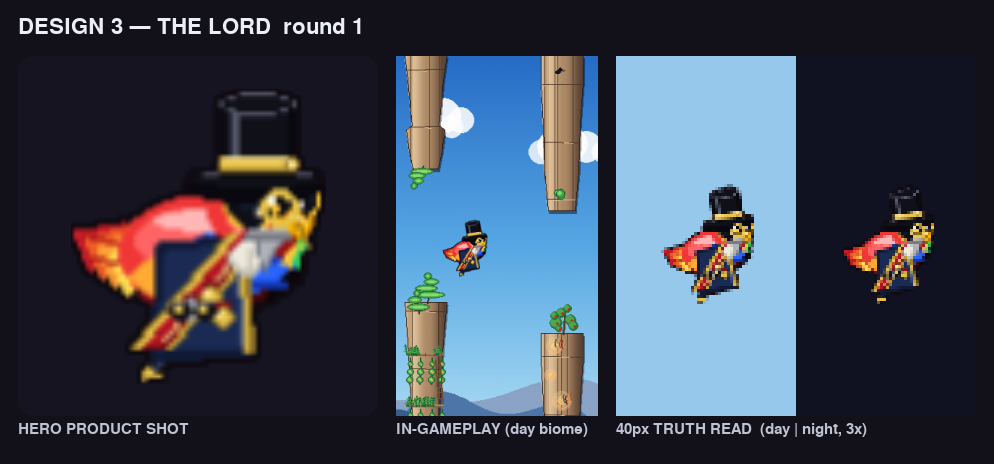
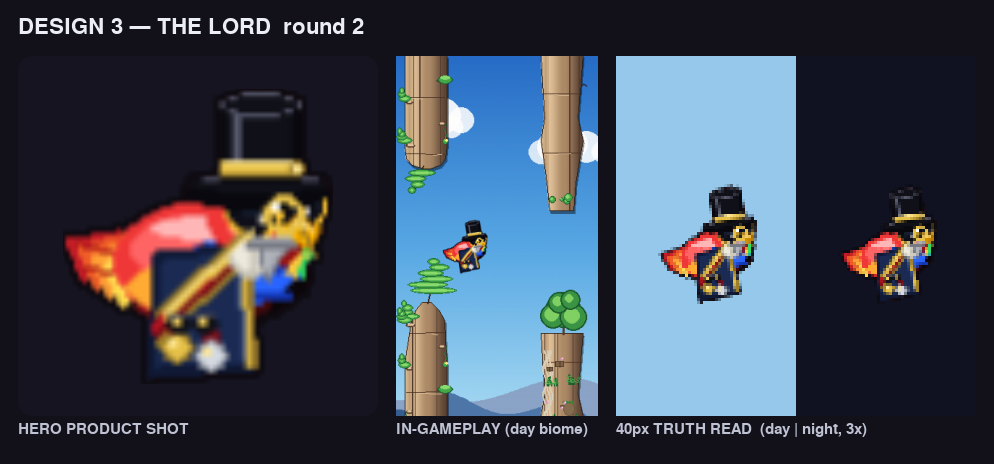
THE LORD (tophat design 3) R2: single gold-edged sash diagonal
Drop the walking stick so the sash owns the one diagonal, rebuild it as a
bright-gold-edged band crossing the navy chest (off the red wing) so it
stops vanishing red-on-red, and cut chest medals 3->2 sitting below the
sash line so the hero zone stays clean. Reads SASH first, HAT second at
40px on day and night.

Claude-Session: https://claude.ai/code/session_01HafGQfRZVDiGkQqpJPr5Cm

diff --git a/tools/tophat_candidates/design_3.py b/tools/tophat_candidates/design_3.py
@@ -42,37 +42,26 @@ _LD_JABOT_D = (196, 192, 178)
 
 _LD_GREY    = (176, 178, 186)      # grey Vandyke goatee + moustache
 _LD_GREY_D  = (120, 122, 132)
-_LD_EBONY   = (28, 26, 32)         # ebony walking-stick shaft
 _LD_SILVER  = (214, 218, 226)      # one silver medal so the cluster isn't all gold
 _LD_SILVER_D = (150, 154, 164)
 _LD_SHOE    = (18, 18, 24)         # court shoe black
 _LD_SHOE_H  = (70, 72, 86)
 
 
-def _medal(surf, cx, cy, face, face_d):
+def _medal(surf, cx, cy, face, face_d, r=4):
     """A round chest medal: tiny ribbon bar above a two-value disc with a glint.
-    Kept ~5px so two or three cluster without muddying the sash at 40px."""
-    pygame.draw.rect(surf, _LD_SASH_D, (cx - 2, cy - 4, 4, 2))        # ribbon bar
-    pygame.draw.circle(surf, face_d, (cx, cy), 3)
-    pygame.draw.circle(surf, face, (cx, cy), 2)
+    Slightly larger now (two-medal cluster) so each glints clearly while sitting
+    well below the sash line rather than speckling it."""
+    pygame.draw.rect(surf, _LD_SASH_D, (cx - 2, cy - r - 2, 4, 3))    # ribbon bar
+    pygame.draw.circle(surf, face_d, (cx, cy), r)
+    pygame.draw.circle(surf, face, (cx, cy), r - 1)
     pygame.draw.circle(surf, _LD_GOLD_H, (cx - 1, cy - 1), 1)         # glint
 
 
 def _paint(surf, _a):
-    # ── GOLD-TOPPED EBONY WALKING STICK slung diagonally BEHIND the body (painted
-    #    first so the body covers all but the parts that overshoot the silhouette).
-    #    The gold knob sits up near the slung wing; the shaft sweeps down past the
-    #    lower body so the tip breaks the outline against open sky.
-    knob = (HX - 6, HY + 18)
-    tip  = (HX - 26, HY + 40)
-    pygame.draw.line(surf, _LD_EBONY, (knob[0], knob[1]), (tip[0], tip[1]), 3)
-    pygame.draw.line(surf, _LD_NAVY_H, (knob[0] - 1, knob[1] + 1),
-                     (tip[0] - 1, tip[1] + 1), 1)                     # shaft glint
-    pygame.draw.circle(surf, _LD_GOLD_D, knob, 4)
-    pygame.draw.circle(surf, _LD_GOLD, knob, 3)
-    pygame.draw.circle(surf, _LD_GOLD_H, (knob[0] - 1, knob[1] - 1), 1)
-    _poly(surf, _LD_GOLD, [(tip[0] - 1, tip[1] - 1), (tip[0] + 2, tip[1] + 1),
-                           (tip[0] - 2, tip[1] + 2)])                 # ferrule cap
+    # The walking stick was dropped: its gold knob + shaft swept at nearly the sash
+    # angle, so two gold diagonals fought and muddied the hero. Court shoes + medals
+    # already carry the "peer" read; the sash now owns the diagonal alone.
 
     # ── NAVY CEREMONIAL COAT painted OVER the body. A trapezoid across body centre
     #    (~32,52) with gold-trim front edges + a small collar notch. Three navy
@@ -90,31 +79,32 @@ def _paint(surf, _a):
     pygame.draw.line(surf, _LD_GOLD_D, (HX - 4, HY + 7), (HX - 2, HY + 35), 2)
     pygame.draw.line(surf, _LD_GOLD, (HX - 4, HY + 7), (HX - 3, HY + 35), 1)
 
-    # ── DIAGONAL RED+GOLD SASH (THE HERO). A single bold band shoulder-to-hip,
-    #    gold-bordered on BOTH edges so it stays the dominant accent and survives
-    #    the downscale. Drawn BEFORE the medals so the medals sit on top yet stay
-    #    small; the sash is never let collapse to mud under them.
-    sh = (HX - 2, HY + 6)            # high at the near shoulder
-    hp = (HX - 26, HY + 34)          # low at the off hip
-    pygame.draw.line(surf, _LD_GOLD_D, sh, hp, 11)                    # outer gold edge
-    pygame.draw.line(surf, _LD_GOLD, sh, hp, 9)
-    pygame.draw.line(surf, _LD_SASH_D, sh, hp, 6)                     # scarlet field
-    pygame.draw.line(surf, _LD_SASH, (sh[0], sh[1] - 1), (hp[0], hp[1] - 1), 4)
-    # One bright gold rail along the upper border — the glint that keeps the
-    # diagonal singing at 40px against both skies.
-    pygame.draw.line(surf, _LD_GOLD_H, (sh[0] + 3, sh[1] - 2),
-                     (hp[0] + 3, hp[1] - 2), 1)
+    # ── DIAGONAL GOLD-EDGED SASH (THE HERO). One clean band shoulder-to-hip: a
+    #    narrow scarlet core framed by a continuous bright-gold spine on the upper
+    #    edge. It is sat HIGH so it crosses the NAVY chest panel (not the scarlet
+    #    wing below) — red-on-red was making it vanish at 40px. Goal: a single
+    #    unbroken gold-edged diagonal that reads SASH first against day AND night.
+    sh = (HX - 4, HY + 7)            # high at the near shoulder, over the navy lapel
+    hp = (HX - 24, HY + 26)          # ends at the hip ABOVE the scarlet wing
+    pygame.draw.line(surf, _LD_GOLD_D, sh, hp, 9)                     # gold underframe
+    pygame.draw.line(surf, _LD_SASH_D, sh, hp, 5)                     # scarlet shadow
+    pygame.draw.line(surf, _LD_SASH, (sh[0] - 1, sh[1]), (hp[0] - 1, hp[1]), 3)
+    # Continuous 2px bright-gold spine on the upper edge, shoulder-to-hip — the one
+    # mark that has to survive the downscale, so it gets the brightest value.
+    pygame.draw.line(surf, _LD_GOLD, (sh[0] + 2, sh[1] - 3),
+                     (hp[0] + 2, hp[1] - 3), 3)
+    pygame.draw.line(surf, _LD_GOLD_H, (sh[0] + 2, sh[1] - 4),
+                     (hp[0] + 2, hp[1] - 4), 1)
 
-    # ── MEDALS clustered at the chest — two gold, one silver, each tiny. Set just
-    #    off the sash so they read as a row of decorations without crowding the
-    #    diagonal into clutter.
-    _medal(surf, HX - 11, HY + 22, _LD_GOLD, _LD_GOLD_D)
-    _medal(surf, HX - 16, HY + 25, _LD_SILVER, _LD_SILVER_D)
-    _medal(surf, HX - 8, HY + 27, _LD_GOLD, _LD_GOLD_D)
+    # ── TWO MEDALS on the navy coat BELOW the sash's lower end — one gold, one
+    #    silver — pulled fully off the diagonal so the sash zone stays clean. Read
+    #    as two metal glints under the band, third in the hierarchy after sash+hat.
+    _medal(surf, HX - 19, HY + 31, _LD_GOLD, _LD_GOLD_D)
+    _medal(surf, HX - 11, HY + 33, _LD_SILVER, _LD_SILVER_D)
 
     # ── JABOT lace at the throat — a soft off-white blob with a shadow underside
     #    so it reads as spilling lace, the bright value that frames the goatee.
-    jx, jy = HX - 2, HY + 9
+    jx, jy = HX - 2, HY + 7
     pygame.draw.ellipse(surf, _LD_JABOT_D, (jx - 5, jy - 1, 10, 9))
     pygame.draw.ellipse(surf, _LD_JABOT, (jx - 4, jy - 1, 8, 7))
     pygame.draw.line(surf, _LD_JABOT_D, (jx, jy + 1), (jx, jy + 6), 1)  # lace fold

diff --git a/tools/tophat_candidates/render_design_3.py b/tools/tophat_candidates/render_design_3.py
@@ -13,7 +13,7 @@ from tools import ninja_render
 from tools.tophat_candidates.design_3 import build
 
 OUT = "docs/store_redesign/costume/tophat/design_3/round_1.png"
-TITLE = "DESIGN 3 — THE LORD  round 1"
+TITLE = "DESIGN 3 — THE LORD  round 2"
 
 
 def _label(surf, text, x, y, size=18, color=(236, 238, 246)):
